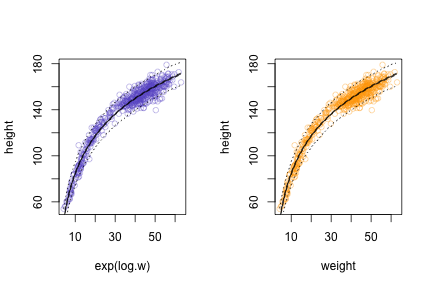
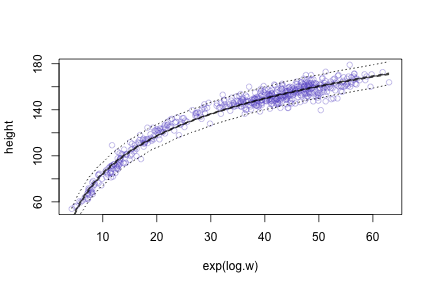
HW3: final draft

diff --git a/hw3ashander.tex b/hw3ashander.tex
@@ -426,6 +426,7 @@
 \subsection*{Problem 1}
 \label{problem1}
 
+Using the Howell dataset, adults only
 
 \begin{knitrout}
 \definecolor{shadecolor}{rgb}{.97, .97, .97}{\color{fgcolor}\begin{kframe}
@@ -439,12 +440,12 @@
 \end{knitrout}
 
 
-Model the relationship between height $h_i$ and weight $w_i$ as
+we model the relationship between height $h_i$ and weight $w_i$ as
 \[
 h_i  \sim {\rm Normal}\left ( \mu_i, \sigma \right). 
 \]
 
-with $\mu_i = \alpha + \beta w_i$
+with $\mu_i = \alpha + \beta w_i$.
 
 Note that $h_i$ is column `height` and $w_i$ is column `weight` in the data frame `d2`. 
 
@@ -477,10 +478,10 @@ Note that $h_i$ is column `height` and $w_i$ is column `weight` in the data fram
 \end{flushleft}
 \begin{verbatim}
 ##  individual known.weights expected.height lower.90 upper.90
-##           1         46.95           156.4    148.0    164.6
-##           2         43.72           153.4    145.2    161.6
-##           3         64.78           172.5    163.8    180.8
-##           4         32.59           143.4    134.9    151.8
+##           1         46.95           156.4    147.8    164.5
+##           2         43.72           153.4    144.9    161.3
+##           3         64.78           172.5    163.9    180.6
+##           4         32.59           143.4    134.9    151.7
 ##           5         54.63           163.3    154.9    171.6
 \end{verbatim}
 \end{kframe}}
@@ -491,6 +492,7 @@ The above provides 90\% {\em PREDICTION } intervals (i.e., confidence intervals 
 
 \subsubsection{a}
 
+Now, we apply the same model to  youth in the Howell dataset, 
 
 \begin{knitrout}
 \definecolor{shadecolor}{rgb}{.97, .97, .97}{\color{fgcolor}\begin{kframe}
@@ -570,16 +572,17 @@ A simple interpretation of the coefficients implies:
 
 \subsubsection{c}
 
-Most concerned by the performance of the fit at low and high weights. 
+The plot above shows raw data, predicted mean heights (black), prediction intervals (PI), and confidence intervals (CI). 
+ I'm most concerned by the performance of the fit at low and high weights. 
 In particular, the model underpredicts height at the upper end of the weight range, and overpredicts at lower end of the range.
 I expect these poblems arise because the linear model cannot accommodate the biological reality of growth and development; the amount of energy (weight) allocated height may change over development. 
 Further, height levels off at low weights.
 
 To accommodate biological reality, I would use a model where growth has  non-linear relationship with weight.
-Maybe a sinusoid: non-growth development early, then even develoment/height, then leveling off to maintenance.
-Would like to keep intercept at zero though
+One possibility is a sinusoid: non-growth development early, then even develoment/height, then leveling off to maintenance.
+I would like to keep intercept at zero though. 
 
-One could also transform the data\dots 
+Another possibility is to transform the data\dots 
 
 
 \subsection*{Problem 3}
@@ -633,8 +636,9 @@ In practice, this means plotting
 
 For the mean prediction, however, we directly plot the curve
 \[
-\bar h = \alpha + \beta \log(w_i)
+\bar h = \alpha + \beta \log(w_i).
 \]
+
 
     
 \begin{knitrout}
@@ -657,7 +661,6 @@ For the mean prediction, however, we directly plot the curve
 \hlstd{}\hlkeyword{\usebox{\hlnormalsizeboxclosebrace}}\hlkeyword{)}\hspace*{\fill}\\
 \hlstd{}\hspace*{\fill}\\
 \hlstd{}\hlcomment{\usebox{\hlnormalsizeboxhash}{\ }plot{\ }TODO:{\ }clean{\ }this{\ }up,{\ }maybe{\ }rewrite{\ }as{\ }ggplot}\hspace*{\fill}\\
-\hlstd{}\hlsymbol{op}{\ }\hlassignement{\usebox{\hlnormalsizeboxlessthan}-}{\ }\hlfunctioncall{par}\hlkeyword{(}\hlargument{mfrow}{\ }\hlargument{=}{\ }\hlfunctioncall{c}\hlkeyword{(}\hlnumber{1}\hlkeyword{,}{\ }\hlnumber{2}\hlkeyword{)}\hlkeyword{)}\hspace*{\fill}\\
 \hlstd{}\hlfunctioncall{plot}\hlkeyword{(}\hlsymbol{height}{\ }\hlkeyword{\urltilda{}}{\ }\hlfunctioncall{exp}\hlkeyword{(}\hlsymbol{log.w}\hlkeyword{)}\hlkeyword{,}{\ }\hlargument{data}{\ }\hlargument{=}{\ }\hlsymbol{d}\hlkeyword{,}{\ }\hlargument{col}{\ }\hlargument{=}{\ }\hlfunctioncall{col.alpha}\hlkeyword{(}\hlstring{"slateblue"}\hlkeyword{,}\hspace*{\fill}\\
 \hlstd{}{\ }{\ }{\ }{\ }\hlnumber{0.4}\hlkeyword{)}\hlkeyword{)}\hspace*{\fill}\\
 \hlstd{}\hlsymbol{Pred.fn}{\ }\hlassignement{\usebox{\hlnormalsizeboxlessthan}-}{\ }\hlkeyword{function}\hlkeyword{(}\hlformalargs{x}\hlkeyword{)}{\ }\hlkeyword{\usebox{\hlnormalsizeboxopenbrace}}\hspace*{\fill}\\
@@ -670,10 +673,22 @@ For the mean prediction, however, we directly plot the curve
 \hlstd{}\hlfunctioncall{lines}\hlkeyword{(}\hlsymbol{heightf.CI}\hlkeyword{[}\hlstring{"lower"}\hlkeyword{,}{\ }\hlkeyword{]}{\ }\hlkeyword{\urltilda{}}{\ }\hlfunctioncall{exp}\hlkeyword{(}\hlsymbol{log.w.range}\hlkeyword{)}\hlkeyword{,}{\ }\hlargument{lty}{\ }\hlargument{=}{\ }\hlnumber{2}\hlkeyword{)}\hspace*{\fill}\\
 \hlstd{}\hlfunctioncall{lines}\hlkeyword{(}\hlsymbol{heightf.CI}\hlkeyword{[}\hlstring{"upper"}\hlkeyword{,}{\ }\hlkeyword{]}{\ }\hlkeyword{\urltilda{}}{\ }\hlfunctioncall{exp}\hlkeyword{(}\hlsymbol{log.w.range}\hlkeyword{)}\hlkeyword{,}{\ }\hlargument{lty}{\ }\hlargument{=}{\ }\hlnumber{2}\hlkeyword{)}\hspace*{\fill}\\
 \hlstd{}\hlfunctioncall{lines}\hlkeyword{(}\hlsymbol{heightf.PI}\hlkeyword{[}\hlstring{"upper"}\hlkeyword{,}{\ }\hlkeyword{]}{\ }\hlkeyword{\urltilda{}}{\ }\hlfunctioncall{exp}\hlkeyword{(}\hlsymbol{log.w.range}\hlkeyword{)}\hlkeyword{,}{\ }\hlargument{lty}{\ }\hlargument{=}{\ }\hlnumber{3}\hlkeyword{)}\hspace*{\fill}\\
-\hlstd{}\hlfunctioncall{lines}\hlkeyword{(}\hlsymbol{heightf.PI}\hlkeyword{[}\hlstring{"lower"}\hlkeyword{,}{\ }\hlkeyword{]}{\ }\hlkeyword{\urltilda{}}{\ }\hlfunctioncall{exp}\hlkeyword{(}\hlsymbol{log.w.range}\hlkeyword{)}\hlkeyword{,}{\ }\hlargument{lty}{\ }\hlargument{=}{\ }\hlnumber{3}\hlkeyword{)}\hspace*{\fill}\\
-\hlstd{}\hspace*{\fill}\\
-\hlstd{}\hspace*{\fill}\\
-\hlstd{}\hlcomment{\usebox{\hlnormalsizeboxhash}other{\ }way..}\hspace*{\fill}\\
+\hlstd{}\hlfunctioncall{lines}\hlkeyword{(}\hlsymbol{heightf.PI}\hlkeyword{[}\hlstring{"lower"}\hlkeyword{,}{\ }\hlkeyword{]}{\ }\hlkeyword{\urltilda{}}{\ }\hlfunctioncall{exp}\hlkeyword{(}\hlsymbol{log.w.range}\hlkeyword{)}\hlkeyword{,}{\ }\hlargument{lty}{\ }\hlargument{=}{\ }\hlnumber{3}\hlkeyword{)}\mbox{}
+\normalfont
+\end{flushleft}
+\includegraphics{all-data} \end{kframe}}
+\end{knitrout}
+
+
+
+Equivalently, it seems, we can directly fit the model from {\bf (a)} and obtain indistinguishable estimates and plots \dots 
+
+
+\begin{knitrout}
+\definecolor{shadecolor}{rgb}{.97, .97, .97}{\color{fgcolor}\begin{kframe}
+\begin{flushleft}
+\ttfamily\noindent
+\hlcomment{\usebox{\hlnormalsizeboxhash}other{\ }way..}\hspace*{\fill}\\
 \hlstd{}\hlsymbol{m2}{\ }\hlassignement{\usebox{\hlnormalsizeboxlessthan}-}{\ }\hlfunctioncall{mle2}\hlkeyword{(}\hlsymbol{height}{\ }\hlkeyword{\urltilda{}}{\ }\hlfunctioncall{dnorm}\hlkeyword{(}\hlargument{mean}{\ }\hlargument{=}{\ }\hlsymbol{alpha}{\ }\hlkeyword{+}{\ }\hlsymbol{beta}{\ }\hlkeyword{*}{\ }\hlsymbol{log.w}\hlkeyword{,}{\ }\hlargument{sd}{\ }\hlargument{=}{\ }\hlsymbol{sigma}\hlkeyword{)}\hlkeyword{,}\hspace*{\fill}\\
 \hlstd{}{\ }{\ }{\ }{\ }\hlargument{data}{\ }\hlargument{=}{\ }\hlsymbol{d}\hlkeyword{,}{\ }\hlargument{start}{\ }\hlargument{=}{\ }\hlfunctioncall{list}\hlkeyword{(}\hlargument{alpha}{\ }\hlargument{=}{\ }\hlfunctioncall{mean}\hlkeyword{(}\hlsymbol{d}\hlkeyword{\usebox{\hlnormalsizeboxdollar}}\hlsymbol{height}\hlkeyword{)}\hlkeyword{,}{\ }\hlargument{beta}{\ }\hlargument{=}{\ }\hlnumber{0}\hlkeyword{,}{\ }\hlargument{sigma}{\ }\hlargument{=}{\ }\hlfunctioncall{sd}\hlkeyword{(}\hlsymbol{d}\hlkeyword{\usebox{\hlnormalsizeboxdollar}}\hlsymbol{height}\hlkeyword{)}\hlkeyword{)}\hlkeyword{)}\hspace*{\fill}\\
 \hlstd{}\hspace*{\fill}\\
@@ -700,12 +715,7 @@ For the mean prediction, however, we directly plot the curve
 \hlstd{}\hlfunctioncall{lines}\hlkeyword{(}\hlsymbol{heightf.PI}\hlkeyword{[}\hlstring{"lower"}\hlkeyword{,}{\ }\hlkeyword{]}{\ }\hlkeyword{\urltilda{}}{\ }\hlsymbol{weight.range}\hlkeyword{,}{\ }\hlargument{lty}{\ }\hlargument{=}{\ }\hlnumber{3}\hlkeyword{)}\mbox{}
 \normalfont
 \end{flushleft}
-\includegraphics{all-data} \begin{flushleft}
-\ttfamily\noindent
-\hlfunctioncall{par}\hlkeyword{(}\hlsymbol{op}\hlkeyword{)}\mbox{}
-\normalfont
-\end{flushleft}
-\end{kframe}}
+\includegraphics{all-data2} \end{kframe}}
 \end{knitrout}
 
 
